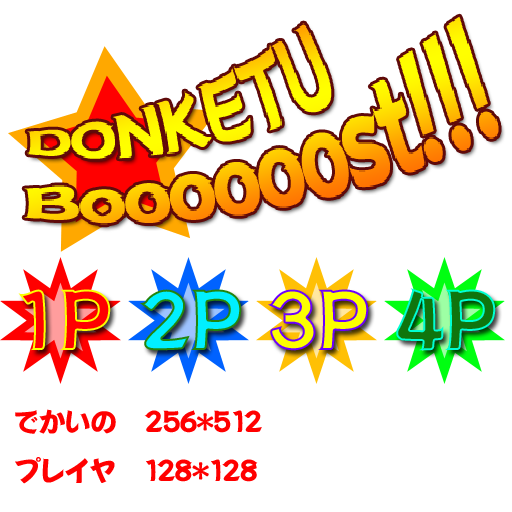
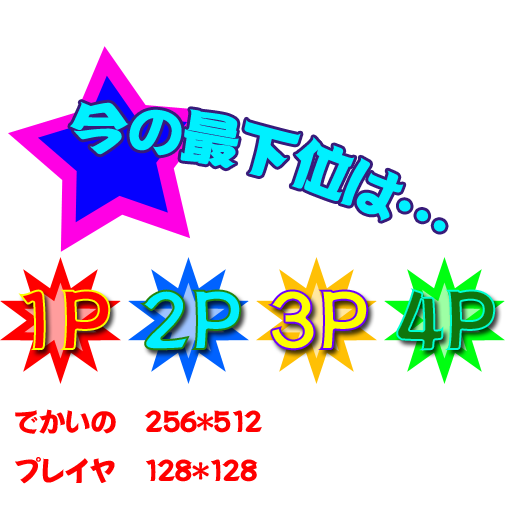
発生するイベントをランダム化対応

Changed region(s): [[0.0, 0.0312, 1.0, 0.5]]

diff --git a/source/EventManager.h b/source/EventManager.h
@@ -28,7 +28,9 @@ namespace
 			COIN_SPLASH,
 			COIN_JUELBOX,
 			COIN_WAVE,
-			COIN_DUBBLE
+			COIN_DUBBLE,
+
+			MAX
 		};
 	}
 }
